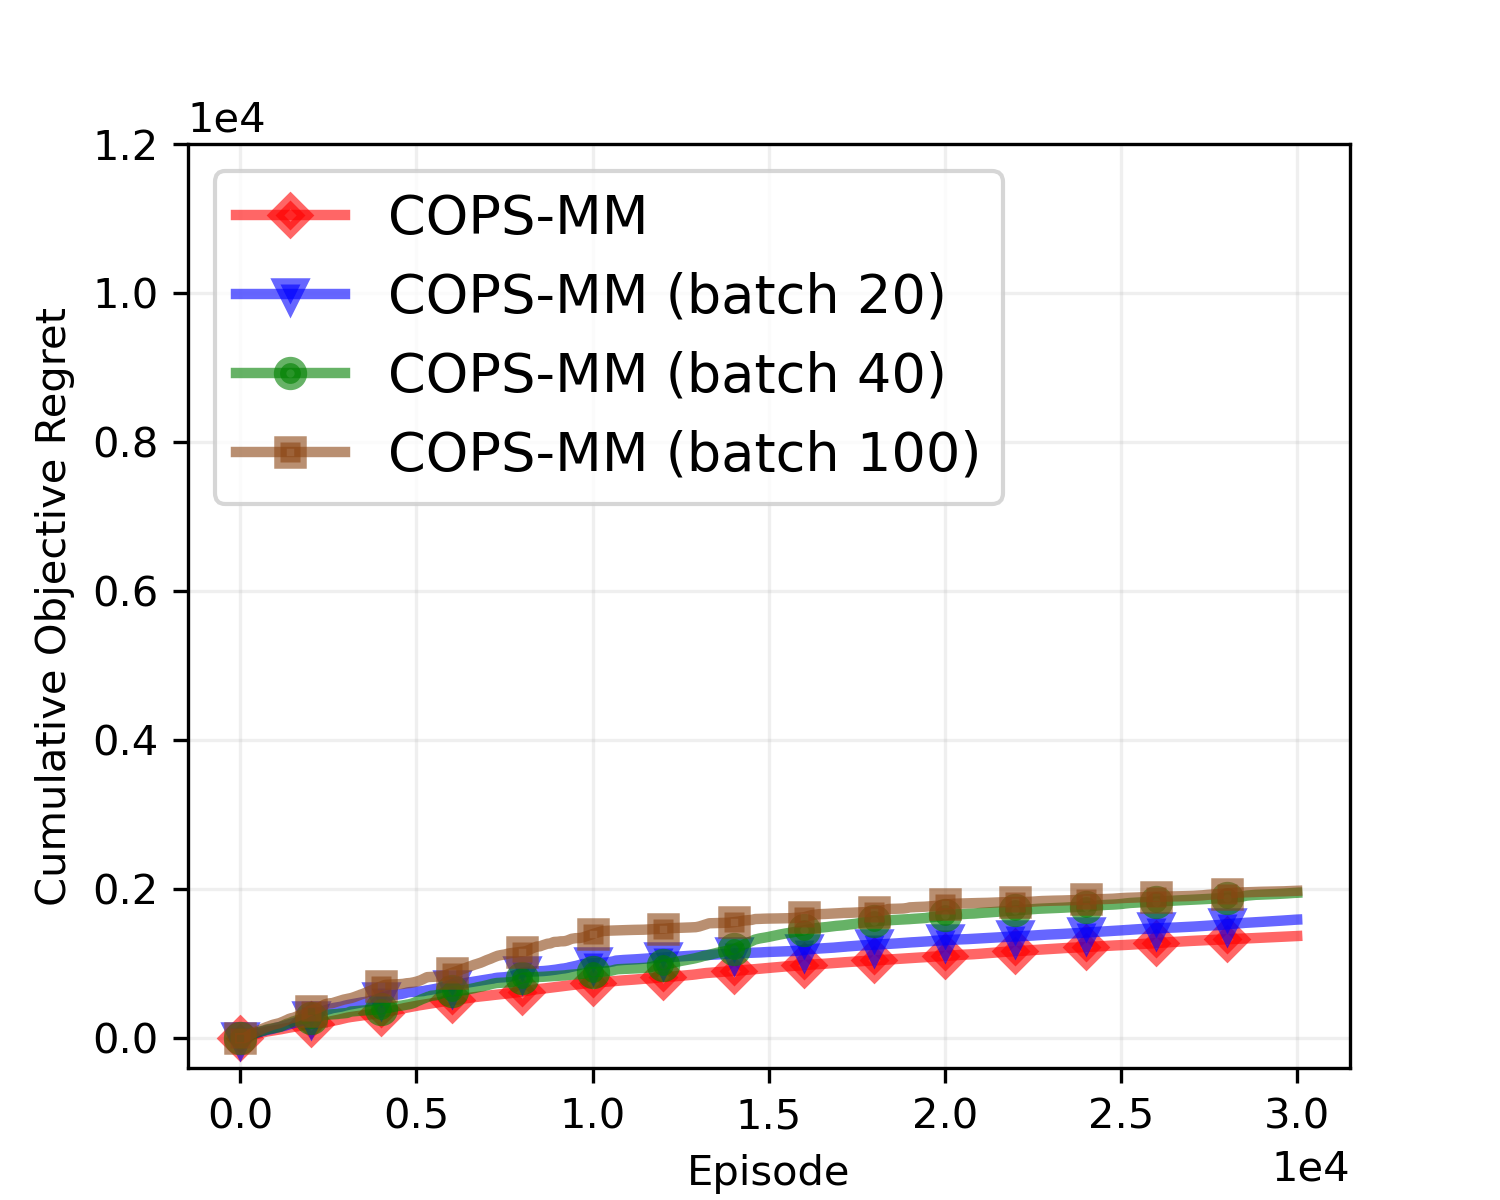
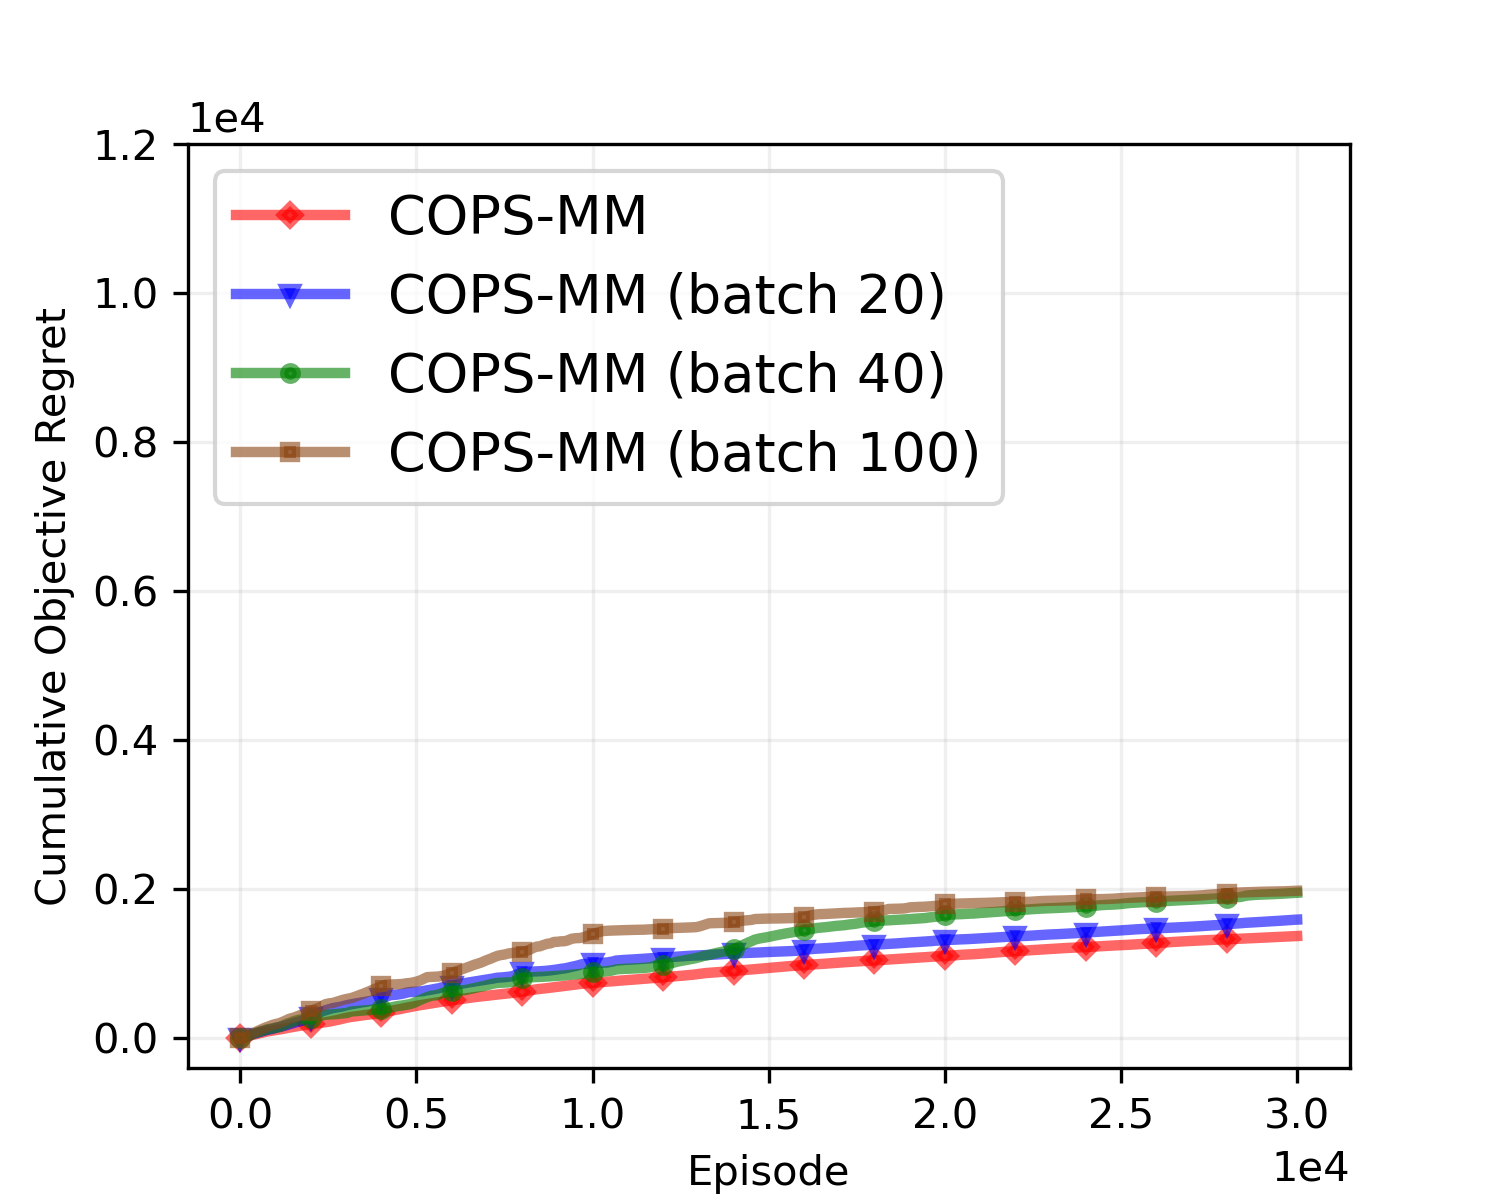
reduce symbol size and replot

Changed region(s): [[0.1533, 0.7092, 0.828, 0.8942], [0.184, 0.1542, 0.2147, 0.4008]]

diff --git a/BPBGClass/DOPE/plot_all_separate.py b/BPBGClass/DOPE/plot_all_separate.py
@@ -82,7 +82,7 @@ mark_every_interval = 2000 # marker point interval
 
 
 fn_list = [
-           '../Contextual_shuffle/output_bs100/CONTEXTUAL_opsrl100.pkl',
+        #    '../Contextual_shuffle/output_bs100/CONTEXTUAL_opsrl100.pkl',
            '../Contextual/output_final/CONTEXTUAL_opsrl100.pkl',
            #'output/DOPE_opsrl100.pkl', # this RUN# 100 has 39 Cons1Regret, thus not used
            #'output/DOPE_opsrl200.pkl',
@@ -91,10 +91,16 @@ fn_list = [
            'output_final/OptCMDP_opsrl100.pkl']
 
 data_list = []
-label_list = ['COPS-MM (batch)', 'COPS-MM', 'DOPE', 'OptPessLP', 'OptCMDP']
-color_list = ['black', 'red', 'blue', 'green', 'SaddleBrown']
-linestyle_list = ['solid', 'solid', 'solid', 'solid', 'solid']
-marker_list = ['x', 'D', 'o', 's', 'v']
+label_list = [
+    # 'COPS-MM (batch)', 
+    'COPS-MM', 'DOPE', 'OptPessLP', 'OptCMDP']
+color_list = [
+    # 'black', 
+    'red', 'blue', 'green', 'SaddleBrown']
+linestyle_list = ['solid' for _ in range(len(label_list))]
+marker_list = [
+    # 'x', 
+    'D', 'o', 's', 'v']
 for fn in fn_list:
     data, _ = read_data(fn, NUMBER_SIMULATIONS, NUMBER_EPISODES_o)
 
@@ -125,7 +131,7 @@ for data, label, clr, mkr, linestyle in zip(data_list, label_list, color_list, m
     obj_opsrl_mean = data['obj_opsrl_mean']
     con1_opsrl_mean = data['con1_opsrl_mean']
     con2_opsrl_mean = data['con2_opsrl_mean']
-    axs.plot(x_o, obj_opsrl_mean[::L], label=label, color=clr, alpha=0.6, linewidth=2.5, marker=mkr,markersize='5', markeredgewidth='3',markevery=mark_every_interval, linestyle=linestyle)
+    axs.plot(x_o, obj_opsrl_mean[::L], label=label, color=clr, alpha=0.6, linewidth=2.5, marker=mkr,markersize='3', markeredgewidth='2',markevery=mark_every_interval, linestyle=linestyle)
     # axs[1].plot(x_o, con1_opsrl_mean[::L], label = label+"_SBP", color=clr, alpha=0.6, linestyle="dotted", linewidth=2.5, marker=mkr, markersize='5', markeredgewidth='3',markevery=mark_every_interval)
     # axs[1].plot(x_o, con2_opsrl_mean[::L], label = label+'_HBA1C', color=clr, alpha=0.6, linewidth=2.5, marker=mkr, markersize='5', markeredgewidth='3',markevery=mark_every_interval)
     # axs[1].plot(x_o, con1_opsrl_mean[::L], label = label, color=clr, alpha=0.6, linestyle="solid", linewidth=2.5, marker=mkr, markersize='5', markeredgewidth='3',markevery=mark_every_interval)
@@ -139,6 +145,7 @@ axs.set_ylabel('Cumulative Objective Regret')
 axs.set_ylim([-0.2e3, 1.2e4])
 
 plt.savefig("BPBGClass_obj_regrets.png", dpi=300, facecolor='w', edgecolor='w')
+plt.savefig("BPBGClass_obj_regrets.pdf", dpi=300, facecolor='w', edgecolor='w')
 # plt.savefig("../../NumericalResults/plots/png/BPBGClass_obj_regrets.png", dpi=300, facecolor='w', edgecolor='w')
 # plt.savefig("../../NumericalResults/plots/pdf/BPBGClass_obj_regrets.pdf", dpi=300, facecolor='w', edgecolor='w') 
 
@@ -161,7 +168,7 @@ for data, label, clr, mkr, linestyle in zip(data_list, label_list, color_list, m
     # axs.plot(x_o, obj_opsrl_mean[::L], label = label, color=clr, alpha=0.6, linewidth=2.5, marker=mkr,markersize='5', markeredgewidth='3',markevery=mark_every_interval)
     # axs[1].plot(x_o, con1_opsrl_mean[::L], label = label+"_SBP", color=clr, alpha=0.6, linestyle="dotted", linewidth=2.5, marker=mkr, markersize='5', markeredgewidth='3',markevery=mark_every_interval)
     # axs[1].plot(x_o, con2_opsrl_mean[::L], label = label+'_HBA1C', color=clr, alpha=0.6, linewidth=2.5, marker=mkr, markersize='5', markeredgewidth='3',markevery=mark_every_interval)
-    axs.plot(x_o, con1_opsrl_mean[::L], label=label, color=clr, alpha=0.6, linewidth=2.5, marker=mkr, markersize='5', markeredgewidth='3',markevery=mark_every_interval, linestyle=linestyle)
+    axs.plot(x_o, con1_opsrl_mean[::L], label=label, color=clr, alpha=0.6, linewidth=2.5, marker=mkr, markersize='3', markeredgewidth='2',markevery=mark_every_interval, linestyle=linestyle)
     
 
 axs.grid(alpha=0.2)
@@ -171,6 +178,7 @@ axs.set_xlabel('Episode')
 axs.set_ylabel('Cumulative Constraint Regret')
 
 plt.savefig("BPBGClass_cons_regrets.png", dpi=300, facecolor='w', edgecolor='w')
+plt.savefig("BPBGClass_cons_regrets.pdf", dpi=300, facecolor='w', edgecolor='w')
 # plt.savefig("../../NumericalResults/plots/png/BPBGClass_cons_regrets.png", dpi=300, facecolor='w', edgecolor='w')
 # plt.savefig("../../NumericalResults/plots/pdf/BPBGClass_cons_regrets.pdf", dpi=300, facecolor='w', edgecolor='w') 
 

diff --git a/InventoryControl/DOPE/plot_all_separate.py b/InventoryControl/DOPE/plot_all_separate.py
@@ -122,7 +122,7 @@ for data, label, clr, mkr, linestyle in zip(data_list, label_list, color_list, m
     obj_opsrl_mean = data['obj_opsrl_mean']
     con1_opsrl_mean = data['con1_opsrl_mean']
     # con2_opsrl_mean = data['con2_opsrl_mean']
-    axs.plot(x_o, obj_opsrl_mean[::L], label=label, color=clr, alpha=0.6, linewidth=2.5, marker=mkr,markersize='5', markeredgewidth='3',markevery=mark_every_interval, linestyle=linestyle)
+    axs.plot(x_o, obj_opsrl_mean[::L], label=label, color=clr, alpha=0.6, linewidth=2.5, marker=mkr,markersize='3', markeredgewidth='2',markevery=mark_every_interval, linestyle=linestyle)
     # axs[1].plot(x_o, con1_opsrl_mean[::L], label = label+"_SBP", color=clr, alpha=0.6, linestyle="dotted", linewidth=2.5, marker=mkr, markersize='5', markeredgewidth='3',markevery=mark_every_interval)
     # axs[1].plot(x_o, con2_opsrl_mean[::L], label = label+'_HBA1C', color=clr, alpha=0.6, linewidth=2.5, marker=mkr, markersize='5', markeredgewidth='3',markevery=mark_every_interval)
     # axs[1].plot(x_o, con1_opsrl_mean[::L], label = label, color=clr, alpha=0.6, linestyle="solid", linewidth=2.5, marker=mkr, markersize='5', markeredgewidth='3',markevery=mark_every_interval)
@@ -151,7 +151,7 @@ for data, label, clr, mkr, linestyle in zip(data_list, label_list, color_list, m
     # axs.plot(x_o, obj_opsrl_mean[::L], label = label, color=clr, alpha=0.6, linewidth=2.5, marker=mkr,markersize='5', markeredgewidth='3',markevery=mark_every_interval)
     # axs[1].plot(x_o, con1_opsrl_mean[::L], label = label+"_SBP", color=clr, alpha=0.6, linestyle="dotted", linewidth=2.5, marker=mkr, markersize='5', markeredgewidth='3',markevery=mark_every_interval)
     # axs[1].plot(x_o, con2_opsrl_mean[::L], label = label+'_HBA1C', color=clr, alpha=0.6, linewidth=2.5, marker=mkr, markersize='5', markeredgewidth='3',markevery=mark_every_interval)
-    axs.plot(x_o, con1_opsrl_mean[::L], label=label, color=clr, alpha=0.6, linewidth=2.5, marker=mkr, markersize='5', markeredgewidth='3',markevery=mark_every_interval, linestyle=linestyle)
+    axs.plot(x_o, con1_opsrl_mean[::L], label=label, color=clr, alpha=0.6, linewidth=2.5, marker=mkr, markersize='3', markeredgewidth='2',markevery=mark_every_interval, linestyle=linestyle)
     
 
 axs.grid(alpha=0.2)

diff --git a/BPBGClass/Contextual_shuffle/plot_all_separate.py b/BPBGClass/Contextual_shuffle/plot_all_separate.py
@@ -149,7 +149,7 @@ for data, label, clr, mkr, linestyle in zip(data_list, label_list, color_list, m
     obj_opsrl_mean = data['obj_opsrl_mean']
     con1_opsrl_mean = data['con1_opsrl_mean']
     con2_opsrl_mean = data['con2_opsrl_mean']
-    axs.plot(x_o, obj_opsrl_mean[::L], label=label, color=clr, alpha=0.6, linewidth=2.5, marker=mkr,markersize='5', markeredgewidth='3',markevery=mark_every_interval, linestyle=linestyle)
+    axs.plot(x_o, obj_opsrl_mean[::L], label=label, color=clr, alpha=0.6, linewidth=2.5, marker=mkr,markersize='3', markeredgewidth='2',markevery=mark_every_interval, linestyle=linestyle)
     # axs[1].plot(x_o, con1_opsrl_mean[::L], label = label+"_SBP", color=clr, alpha=0.6, linestyle="dotted", linewidth=2.5, marker=mkr, markersize='5', markeredgewidth='3',markevery=mark_every_interval)
     # axs[1].plot(x_o, con2_opsrl_mean[::L], label = label+'_HBA1C', color=clr, alpha=0.6, linewidth=2.5, marker=mkr, markersize='5', markeredgewidth='3',markevery=mark_every_interval)
     # axs[1].plot(x_o, con1_opsrl_mean[::L], label = label, color=clr, alpha=0.6, linestyle="solid", linewidth=2.5, marker=mkr, markersize='5', markeredgewidth='3',markevery=mark_every_interval)
@@ -187,7 +187,7 @@ for data, label, clr, mkr, linestyle in zip(data_list, label_list, color_list, m
     # axs.plot(x_o, obj_opsrl_mean[::L], label = label, color=clr, alpha=0.6, linewidth=2.5, marker=mkr,markersize='5', markeredgewidth='3',markevery=mark_every_interval)
     # axs[1].plot(x_o, con1_opsrl_mean[::L], label = label+"_SBP", color=clr, alpha=0.6, linestyle="dotted", linewidth=2.5, marker=mkr, markersize='5', markeredgewidth='3',markevery=mark_every_interval)
     # axs[1].plot(x_o, con2_opsrl_mean[::L], label = label+'_HBA1C', color=clr, alpha=0.6, linewidth=2.5, marker=mkr, markersize='5', markeredgewidth='3',markevery=mark_every_interval)
-    axs.plot(x_o, con1_opsrl_mean[::L], label=label, color=clr, alpha=0.6, linewidth=2.5, marker=mkr, markersize='5', markeredgewidth='3',markevery=mark_every_interval, linestyle=linestyle)
+    axs.plot(x_o, con1_opsrl_mean[::L], label=label, color=clr, alpha=0.6, linewidth=2.5, marker=mkr, markersize='3', markeredgewidth='2',markevery=mark_every_interval, linestyle=linestyle)
     
 
 axs.grid(alpha=0.2)

diff --git a/README.md b/README.md
@@ -245,3 +245,20 @@ python Contextual.py
 # plots
 python plot_all_separate.py 30000
 ```
+
+20240301 Fri
+1. Finalize the regret plots
+```bash
+# for inventory control problem
+cd InventoryControl/DOPE
+python plot_all_separate.py
+
+# for BPBGClass batchsize comparison
+cd BPBGClass/Contextual_shuffle
+python plot_all_separate.py
+
+# for BPBG comparison of COPS and DOPE, etc.
+cd BPBGClass/DOPE
+python plot_all_separate.py
+
+```
